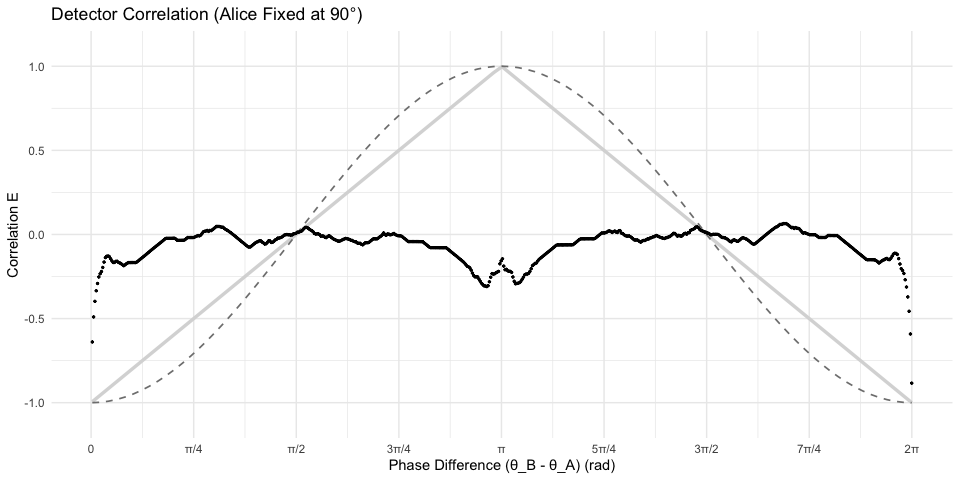
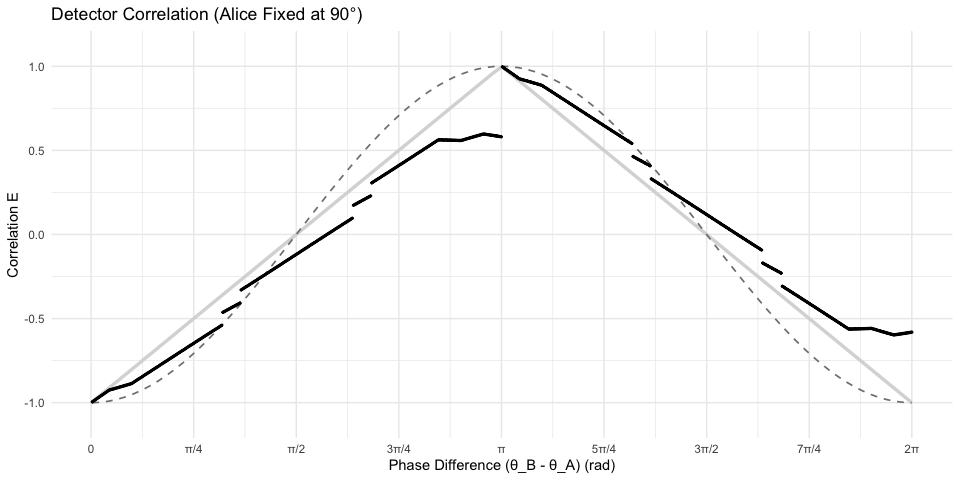
macro as expected classical

diff --git a/src/bell_test_simulator.cpp b/src/bell_test_simulator.cpp
@@ -43,8 +43,10 @@ void micro_macro_bell_erasure_sweep(
 
     for (int j = 0; j < count; j++) {
       // Linear interpolation of microstate range
-      double microstate = microstate_particle_angle_start +
+      double raw_microstate = microstate_particle_angle_start +
         (microstate_particle_angle_end - microstate_particle_angle_start) * ((double)j / (double)(count - 1));
+
+      double microstate = std::remainder(raw_microstate, 2.0 * M_PI);
 
       // 1. Contextual Alignment
       double alpha = std::remainder(detector_angle_rad - microstate, 2.0 * M_PI);
@@ -55,10 +57,11 @@ void micro_macro_bell_erasure_sweep(
       double delta_phi = (1.0 / 2.0) * ((1.0 / cos_alpha) - 1.0);
 
       // 3. Execute Native Erasure
-      EraseResult erasure = erase_single_native(alpha, delta_phi, max_depth);
+      EraseResult erasure = erase_single_native(microstate, delta_phi, max_depth);
 
       // 4. Map to Macrostates
-      double particle_angle = erasure.found ? erasure.erasure_distance : 0.0;
+      double particle_angle = erasure.found ? erasure.macrostate : microstate;
+
       double phase = detector_angle_rad - particle_angle;
       int spin = std::cos(phase) >= 0 ? 1 : -1;
 

diff --git a/bell_test.md b/bell_test.md
@@ -3,11 +3,11 @@ Bell Test: Symplectic Contextual Erasure
 
 ## Statistical Summary
 
-| Metric              | Value      |
-|:--------------------|:-----------|
-| **CHSH S-Value**    | **1.3297** |
-| **Classical Limit** | 2.0        |
-| **Quantum Limit**   | 2.828      |
+| Metric              | Value |
+|:--------------------|:------|
+| **CHSH S-Value**    | **2** |
+| **Classical Limit** | 2.0   |
+| **Quantum Limit**   | 2.828 |
 
 ------------------------------------------------------------------------
 
@@ -31,10 +31,10 @@ $(\theta_B - \theta_A)$.
 ### CHSH Breakdown
 
 ``` text
-E(0,  pi/4):  -0.6559
-E(0, 3pi/4):   0.6559
-E(90, pi/4):  -0.0003
-E(90, 3pi/4): -0.0177
+E(0,  pi/4):  -0.4715
+E(0, 3pi/4):   0.4715
+E(90, pi/4):  -0.4101
+E(90, 3pi/4): -0.6469
 -----------------------
-S-Value:       1.3297
+S-Value:       2.0000
 ```
